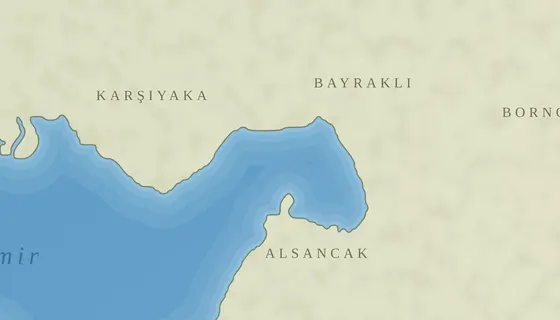
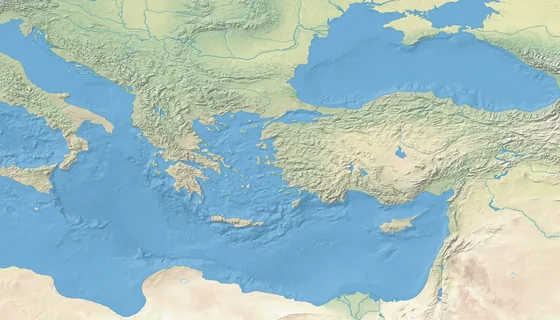
jiodez

diff --git a/src/css/accueil.css b/src/css/accueil.css
@@ -6,33 +6,44 @@
   order: -1;
 }
 
-/* ─────────── le calendrier ─────────── */
-.accueil-calendrier {
+/* ─────────── les prochaines séances (affichées directement) ─────────── */
+.accueil-seances {
   display: flex;
   align-items: baseline;
-  justify-content: space-between;
-  gap: 12px;
+  flex-wrap: wrap;
+  gap: 6px 18px;
   padding: 12px 16px;
   background: var(--iz-box);
   border: 1px solid var(--iz-accent-dim);
   border-radius: var(--iz-radius);
-  transition: 0.2s ease;
 }
 
-.accueil-calendrier b {
+.accueil-seances b {
   color: var(--iz-accent);
   font: italic 18px var(--iz-font-title);
   letter-spacing: 1px;
 }
 
-.accueil-calendrier span {
-  color: var(--iz-text-soft);
-  font-size: 13px;
+.accueil-seances ul {
+  display: flex;
+  flex-wrap: wrap;
+  gap: 4px 18px;
+  margin: 0;
+  padding: 0;
+  list-style: none;
 }
 
-.accueil-calendrier:hover {
-  border-color: var(--iz-accent);
-  background: var(--iz-box-soft);
+.accueil-seances li {
+  color: var(--iz-text-soft);
+  font-size: 14px;
+  white-space: nowrap;
+}
+
+.accueil-seances .date {
+  margin-right: 6px;
+  color: var(--iz-accent);
+  font-family: monospace;
+  font-size: 13px;
 }
 
 /* ─────────── les tuiles ─────────── */
